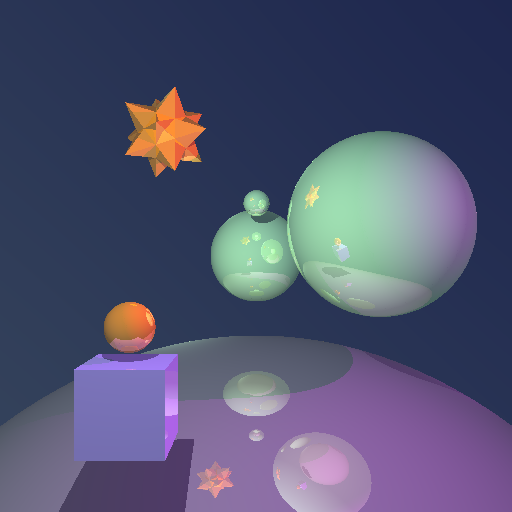
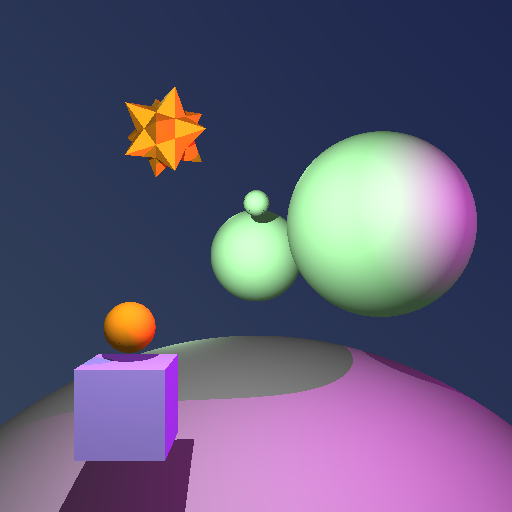
A4 png samples added.

diff --git a/A4/README.md b/A4/README.md
@@ -1,0 +1,38 @@
+# Compilation
+In A3 folder,
+```
+cd A4
+premake4 gmake
+make
+```
+
+boot 
+``` 
+cd Assets
+../A4 simple.lua 
+```
+
+# Manual
+Follow assignment specifications.
+
+I implemented mirror reflection as my extra feature.
+
+The mirror reflection and bounding volumes rendering macros are defined in A4.hpp, Mesh.hpp
+
+The background is gradient from top-right to down-left.
+
+In the **root** directory, sample.png, screenshot.png is rendered from Assests/sample.lua with mirror reflection. Sample2.png is rendered from Assests/nonhier.png with mirror reflection. 
+They both satisfy the sample requirements including at least one of each required primitive type, at least one point light source, at least one shiny surface, a non-trivial background, and also mirror reflection as extra feature.
+
+
+In the **Assets** directory,
+For simple.png, hier.png, nonhier.png, mirror reflection is on.
+
+For others, mirror reflection is off.
+
+macho-cows-bb.png is provided for RENDER_BOUNDING_VOLUMES.
+
+I have my A4 run in Machine gl47.
+
+Noticed that I made serveral obj file with Blender v3.3.1.
+
